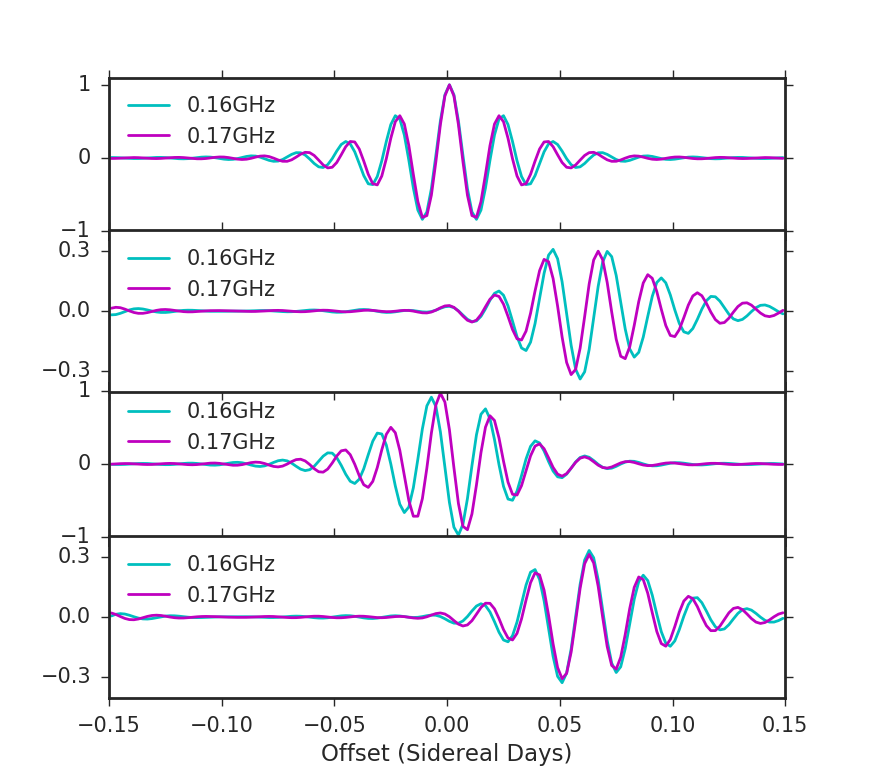
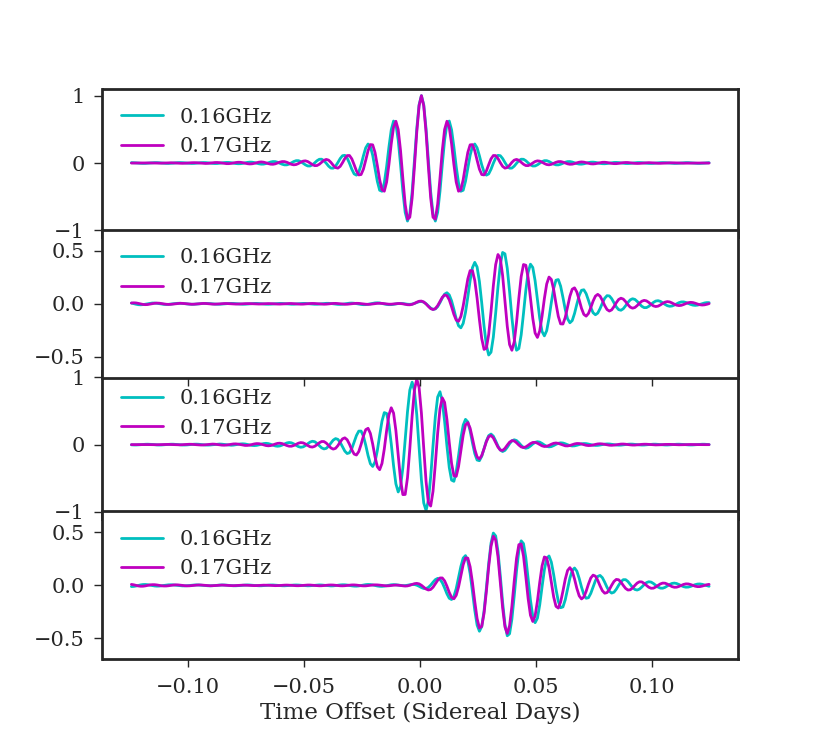
save

Changed region(s): [[0.0611, 0.0931, 0.9158, 0.9933]]

diff --git a/Rotation paper/draft_working.tex b/Rotation paper/draft_working.tex
@@ -96,7 +96,7 @@ another if they are \textit{near-equivalent}.
 \begin{figure}[H]
 \includegraphics[width=\linewidth]{antpos128}
 
-\caption{The PAPER-128 layout. Each dot corresponds to the location of
+\caption{The PAPER128 layout. Each dot corresponds to the location of
 an antenna. Top panel shows the antenna positions drawn to scale;
 bottom panel show the antenna labels and distances of the 112-element grid, in other words excluding the outrigger antennas.
 The numbering of the antennas in the bottom panel are original labels
@@ -319,7 +319,7 @@ As we see in Eq. \ref{eq:Thetanu}, $\Theta_{\nu}$ at the peak of correlation is 
  
 %Doing so is also crucial to reduction of additional mode mixing, as discussed in \cite{Hazelton2013}. Shapes of overlapping regions of pairs of baselines are fixed with respect to frequency. 
 
-To illustrate the effect of rephasing, we compare in Fig. \ref{fig:freqdiff} real parts of $\Theta_{\nu}$ of both equivalent and near-equivalent baseline pairs for two channels: 0.16 GHz and 0.17 GHz. The top two panels have zero rephasing, and the bottom two are rephased to a time offset of 0.055 sidereal days, the optimal time offset for the given baseline pair. The first and third panels show the equivalent baseline pairs \{1,0\}:\{1,0\}, and second and fourth panels show \{1,0\}:\{1,1\}. We see that in the un-rephased case in the second panel, although the magnitude of correlations match up for the two frequencies, the phases do not. This means summing over frequency leads to destructive interference and signal loss. The wider the frequency profile, the more destructive the interference would be. In the rephased case, the phases of the near-equivalent case match up and can be added without compromising sensitivity. We should thus rephase the data separately for each set of baseline pairs. 
+To illustrate the effect of rephasing, we compare in Fig. \ref{fig:freqdiff} real parts of $\Theta_{\nu}$ of both equivalent and near-equivalent baseline pairs for two channels: 0.16 GHz and 0.17 GHz. The top two panels have zero rephasing, and the bottom two are rephased to a time offset of 0.0325 sidereal days, the optimal time offset for the given baseline pair. The first and third panels show the equivalent baseline pairs \{2,0\}:\{2,0\}, and second and fourth panels show \{2,0\}:\{2,1\}. We see that in the un-rephased case in the second panel, although the magnitude of correlations match up for the two frequencies, the phases do not. This means summing over frequency leads to destructive interference and signal loss. The wider the frequency profile, the more destructive the interference would be. In the rephased case, the phases of the near-equivalent case match up and can be added without compromising sensitivity. We should thus rephase the data separately for each set of baseline pairs. 
 
 \begin{figure}[H]
 \includegraphics[width=1.1\linewidth]{rephs}
@@ -332,8 +332,11 @@ To illustrate the effect of rephasing, we compare in Fig. \ref{fig:freqdiff} rea
 
 
 
-The physical origin of $\psi_\nu$ lies in the two visibilities having different phase centers. By default the correlators of a drift-scan array phase the two visibilities both to zenith at the same time. When they are cross-multiplied with a time lag, the visibilities must be rephased before delay transform to the account for the movement of the zenith. One can check that introduction of a phase in Eq. \ref{eq:Vis1} does carry through the derivation to Eq \ref{eq:Thetanu}. The effect of the phase thus roughly corresponds in a shift of the delay mode measured, and we should expect $\psi_{\nu}$ to be in first order a linear function of $\nu$. 
-In Fig. \ref{fig:phi_nu} we show the peak phases for for a given baseline pair of PAPER128 (\{2,0\}:\{2,1\}), comparing the drift-scan phase dependence with that of the same baseline with hypothetical tracking-elements (Eq. \ref{eq:Thetanu} and Eq. \ref{eq:Thetanu_tracking}). In the drift-scan case, we indeed see a linear relation corresponding to a delay of $\Delta\tau\approx17$ns. In the tracking case, because of minimal zenith movement, only second order effects are observed. 
+The physical origin of $\psi_\nu$ lies in the two visibilities having different phase centers. By default the correlators of a drift-scan array phase the two visibilities both to zenith at the same time. When they are cross-multiplied with a time lag, the visibilities must be rephased before delay transform to the account for the movement of the zenith. One can check that introduction of a phase in Eq. \ref{eq:Vis1} does carry through the derivation to Eq \ref{eq:Thetanu}. The effect of the phase thus roughly corresponds in a shift of the delay mode measured, and we should expect $\psi_{\nu}$ to be in first order a linear function of $\nu$:
+\[
+\psi_{\nu}\sim 2\pi\Delta\tau\nu.
+\]
+In Fig. \ref{fig:phi_nu} we show the peak phases for for a given baseline pair of PAPER128 (\{2,0\}:\{2,1\}), comparing the drift-scan phase dependence with that of the same baseline with hypothetical tracking-elements (Eq. \ref{eq:Thetanu} and Eq. \ref{eq:Thetanu_tracking}). In the drift-scan case, we indeed see a linear relation corresponding to a delay of $\Delta\tau\approx17$ns. In the tracking case, because of minimal zenith movement, only second order effects are observed. The origin of the second order effects can be seen as due to the $w$-term, or more precisely the fact that $uvw$ tracks do not cross when their 2 dimensional projections do. We refer the reader to Appendix \ref{sec:appA} for further explanation. 
 
 \begin{figure}[H]
 \includegraphics[width=1\linewidth]{phi_nu}
@@ -345,7 +348,7 @@ In Fig. \ref{fig:phi_nu} we show the peak phases for for a given baseline pair o
 Once rephased, the overall weight can be constructed by $\Theta=\int \Theta_{\nu}d\nu$, and thus
 \begin{equation}
 \begin{aligned} & \langle V^{*}(\boldsymbol{b},\tau)V_{\psi}(\boldsymbol{b'},\tau)\rangle\\
- & =\left(\frac{2k_{B}}{\lambda^{2}}\right)^{2}P(k_{b,\tau})\int\frac{d\Omega d\nu}{X^{2}Y}|A^{*}(\hat{\boldsymbol{s}},\nu)A(\Gamma\hat{\boldsymbol{s}},\nu)|\\
+ & =\left(\frac{2k_{B}}{\lambda^{2}}\right)^{2}P(k_{b,\tau})\int\frac{d\Omega d\nu}{X^{2}Y}|A^{*}(\hat{\boldsymbol{s}},\nu)A(\Gamma\hat{\boldsymbol{s}},\nu)|e^{i\psi_{\nu}}\\
  & \qquad \qquad \qquad \qquad \exp\left[-i2\pi\frac{\nu}{c}\left(\hat{\boldsymbol{s}}\cdot\boldsymbol{b}-\Gamma\hat{\boldsymbol{s}}\cdot\boldsymbol{b'}\right)\right].\end{aligned}
 \label{eq:final_new}
 \end{equation}
@@ -396,21 +399,19 @@ Manageable chromaticity of the instrument is crucial in delay-transform techniqu
 \begin{figure*}[h!]
 \includegraphics[width=\textwidth]{sensitivity_1}
 
-\caption{Relative sensitivity contributions of selected baseline combinations in PAPER-128. In the legend m,n:p,q denotes cross
-multiplying PAPER-128 baselines of east-west, north-south separations (m,n) and (p,q) respectively. The top
-panel shows the peak height (degree of correlation) of each baseline
+\caption{Relative sensitivity contributions of selected baseline combinations in PAPER-128. Each labeled point in the middle and bottom panels correspond to a cross-correlated baseline pair \{m,n\}:\{p,q\}. The shape of the symbol encodes the first baseline \{m,n\}, as displayed in the top left legend panel. The edge and face colors encode the second baseline \{p,q\}, as displayed in the top right legend panel. The middle
+panel shows the peak height ($\Theta$) of each baseline
 combination, while the bottom panel multiplies the heights by the
 corresponding multiplicities as in Eq. \eqref{eq:sensul}. 
-In weighting by the multiplicity (bottom), we have chosen to fix the sensitivity 
-contribution of 1,0:1,0 to unity. The same symbols and colors correspond in the top and bottom panel, with half of the legend shown in each. }
+In both the middle and bottom panels, we have chosen to fix the value  of \{1,0\}:\{1,0\} to unity.  }
 \label{fig:sensplot}
 \end{figure*}
 
-\begin{figure*}[h!]
-\includegraphics[width=0.9\textwidth]{HeraAntpos}
+\begin{figure}[h]
+\includegraphics[width=\linewidth]{HeraAntpos}
 \label{fig:HeraAntpos}
 \caption{Planned Hydrogen Epoch of Reionization Array antenna configurations. HERA 37 is expected to complete and start collecting data in summer of 2017, and the other three are planned configurations in the next phases. For HERA350, only the 320 elements in the core are shown. }
-\end{figure*}
+\end{figure}
 
 \subsection{ Sensitivity \label{sec:sensitivity}}
 
@@ -555,8 +556,9 @@ Redundant arrays are designed to maximize sensitivity. Current generations of re
 
 
 \appendix
-\section{\label{sec:appA}\\Track-crossing}
-In this section we explain the reason why track-crossing, even in $uvw$ space, do not correspond to peak correlation for drift-scan measurements. 
+\section{\\Track-crossing and $w$-term \label{sec:appA}}
+\label{sec:appA}
+In this section we link our results from Section \ref{sec:method} to the traditional views of rotation synthesis and in particular $uv$ tracks. 
 Typical convention of rotation synthesis has rotation operates on $\boldsymbol{b'}$ instead of $\hat{\boldsymbol{s}}$, in which case Eq.\ref{eq:Theta} becomes
 \begin{equation}
 \Theta \equiv\int\frac{d\Omega d\nu}{X^{2}Y}|A^{*}(\hat{\boldsymbol{s}},\nu)A(\Gamma\hat{\boldsymbol{s}},\nu)||\phi(\nu)|^{2} e^{-i2\pi\frac{\nu}{c}\hat{\boldsymbol{s}}\cdot\left(\boldsymbol{b}-\widetilde{\Gamma}\boldsymbol{b'}\right)}, 
@@ -568,11 +570,14 @@ For tracking elements, $\Gamma$ becomes a rotation around zenith:
 \Theta \equiv\int\frac{d\Omega d\nu}{X^{2}Y}|A^{*}(\hat{\boldsymbol{s}},\nu)A(\hat{\boldsymbol{s}},\nu)||\phi(\nu)|^{2} e^{-i2\pi\frac{\nu}{c}\hat{\boldsymbol{s}}\cdot\left(\boldsymbol{b}-\widetilde{\Gamma}\boldsymbol{b'}\right)}, 
 \label{eq:tracking}
 \end{equation}
-We are now in a position to understand the reason that track-crossing, even in $uvw$ space, as mentioned section \ref{sec:tracks}, would not correspond exactly to the peak of correlation. Track-crossing corresponds to vanishing of the exponent
+
+Track-crossing corresponds to vanishing of the exponent
 \[
  \boldsymbol{b}-\widetilde{\Gamma}\boldsymbol{b'} = 0. \label{eq:trackcross}
  \]
-This condition maximizes $\Theta$ if and only if no other term in the integral depends on $\Gamma$. We see from Eq. \ref{tracking} that this condition is satisfied. In a general drift-scan measurement, however, track-crossing point of Eq. \ref{eq:trackcross} does not maximize $\Theta$. 
+If exponent vanishes, $\Theta_{\nu}$ is real, and one would not observe any non-zero phase at the peak. However, with inclusion of the $w$-term, we see that track crossings in $uv$-plane do not actually imply crossing in the $uvw$ space, therefore the exponent Eq. \ref{eq:trackcross} does not vanish and we observe non-zero, frequency dependent peak phases even in the case of tracking arrays, as shown in Fig. \ref{fig:phi_nu}. 
+
+Furthermore, in the case of drift-scan arrays, even a crossing in $uvw$ space does not necessarily correspond to the maximum of correlation. From Eq. \ref{eq:drift}, we see the track-crossing condition Eq. \ref{eq:trackcross} maximizes $\Theta$ if and only if no other term in the integral depends on $\Gamma$. We see that this is true for the tracking case (Eq. \ref{eq:tracking}), but not the drift-scan case (Eq. \ref{eq:drift}). 
 
 
 \section{\label{sec:appB}\\Derivation of Noise Covariance \label{sec:appB}}
